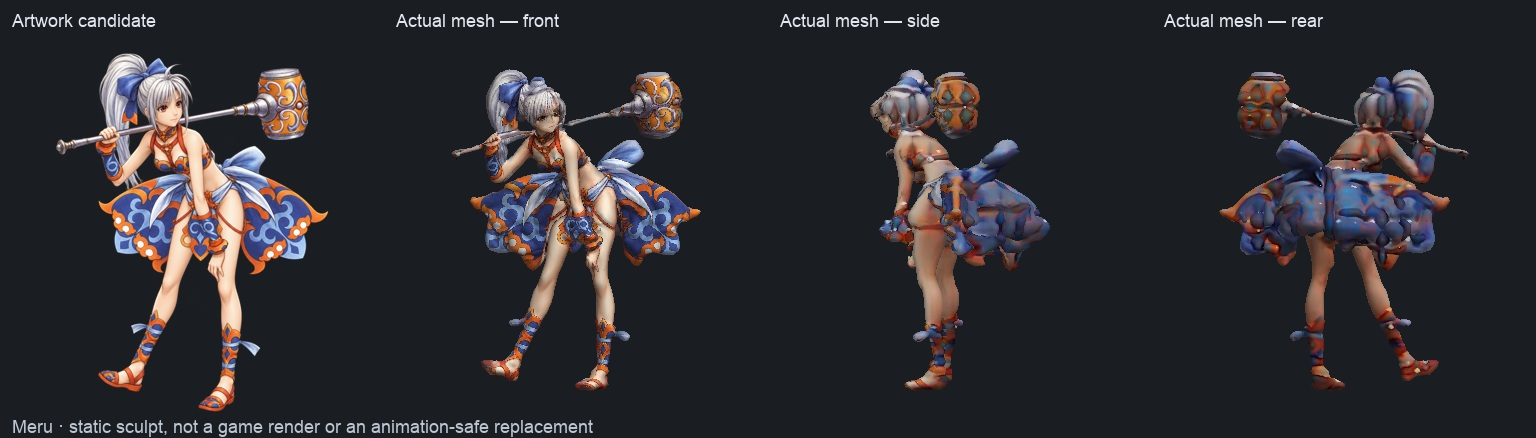
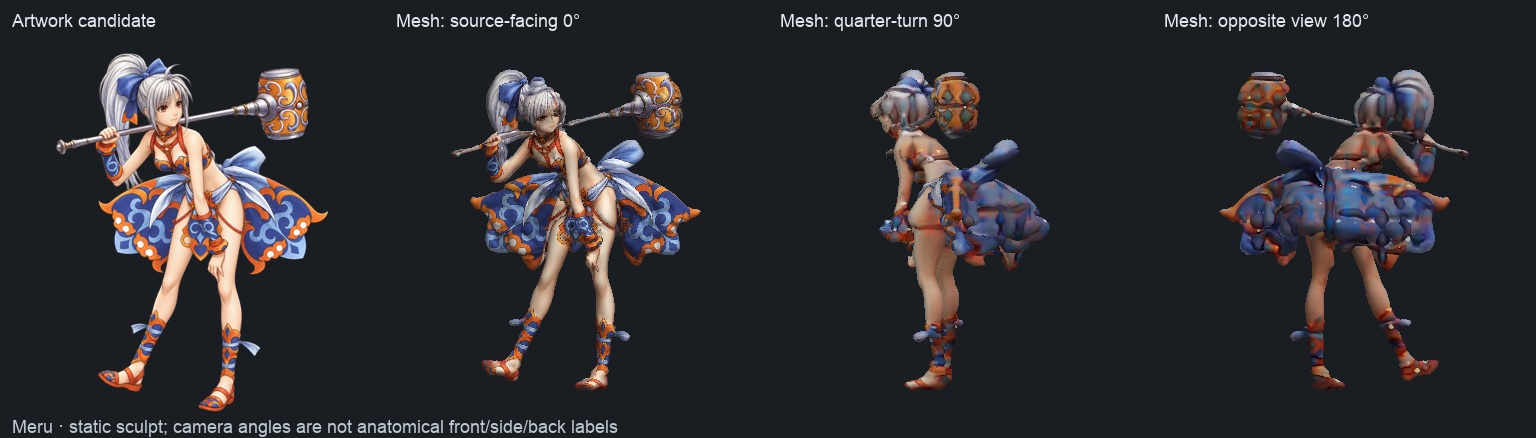
Pin individual party mesh defects and acceptance gates

diff --git a/docs/definitive/PARTY_ORIGINAL_DESIGN_V3.md b/docs/definitive/PARTY_ORIGINAL_DESIGN_V3.md
@@ -37,6 +37,8 @@ Each character folder under [party reconstruction](../../integrations/charhd/pro
 
 The [inventory](../../integrations/charhd/production/party-reconstruction/original-design-v3.json) pins the selected files and records integrity checks. The mesh boards show actual GLB geometry, not illustrations presented as game screenshots: [Dart/Rose/Lavitz](../../integrations/charhd/production/party-reconstruction/party-original-design-v3-meshes-1.jpg), [Shana/Haschel/Albert](../../integrations/charhd/production/party-reconstruction/party-original-design-v3-meshes-2.jpg), [Meru/Kongol/Miranda](../../integrations/charhd/production/party-reconstruction/party-original-design-v3-meshes-3.jpg).
 
+The three columns use camera angles 0°, 90° and 180° around each inferred sculpt. They are source-facing, quarter-turn and opposite views, not registered anatomical front/side/back views. In particular, Haschel's source-facing artwork shows his back. Each character's inventory entry records observed surface defects plus separate, currently false field-fit, battle-fit, joint, weapon-grip, animation, owner and Deck acceptance flags.
+
 **The static visual gate is unfinished.** Front projections retain much of the artwork clarity, but inferred side/rear hair, cloth and armor show swollen shapes and smeared paint. Rose's rear hair, Meru's panels and ponytail, and Kongol's rear musculature/spikes are particularly weak. Albert's cloak also hides surfaces that have not been reconstructed from controls. No sculpt is rigged or fitted to native field/battle skeletons. Position-welded meshes still have boundary edges; UV splitting alone does not explain them. The pipeline keeps the largest component and records discarded components; thin weapon, arrow, string or ornament coverage must be audited before any fit.
 
 These results are useful editable starting points, **not 2026 AA finished game models**. Increasing density or repeatedly adjusting a neck seam will not solve the missing topology and rear design.
